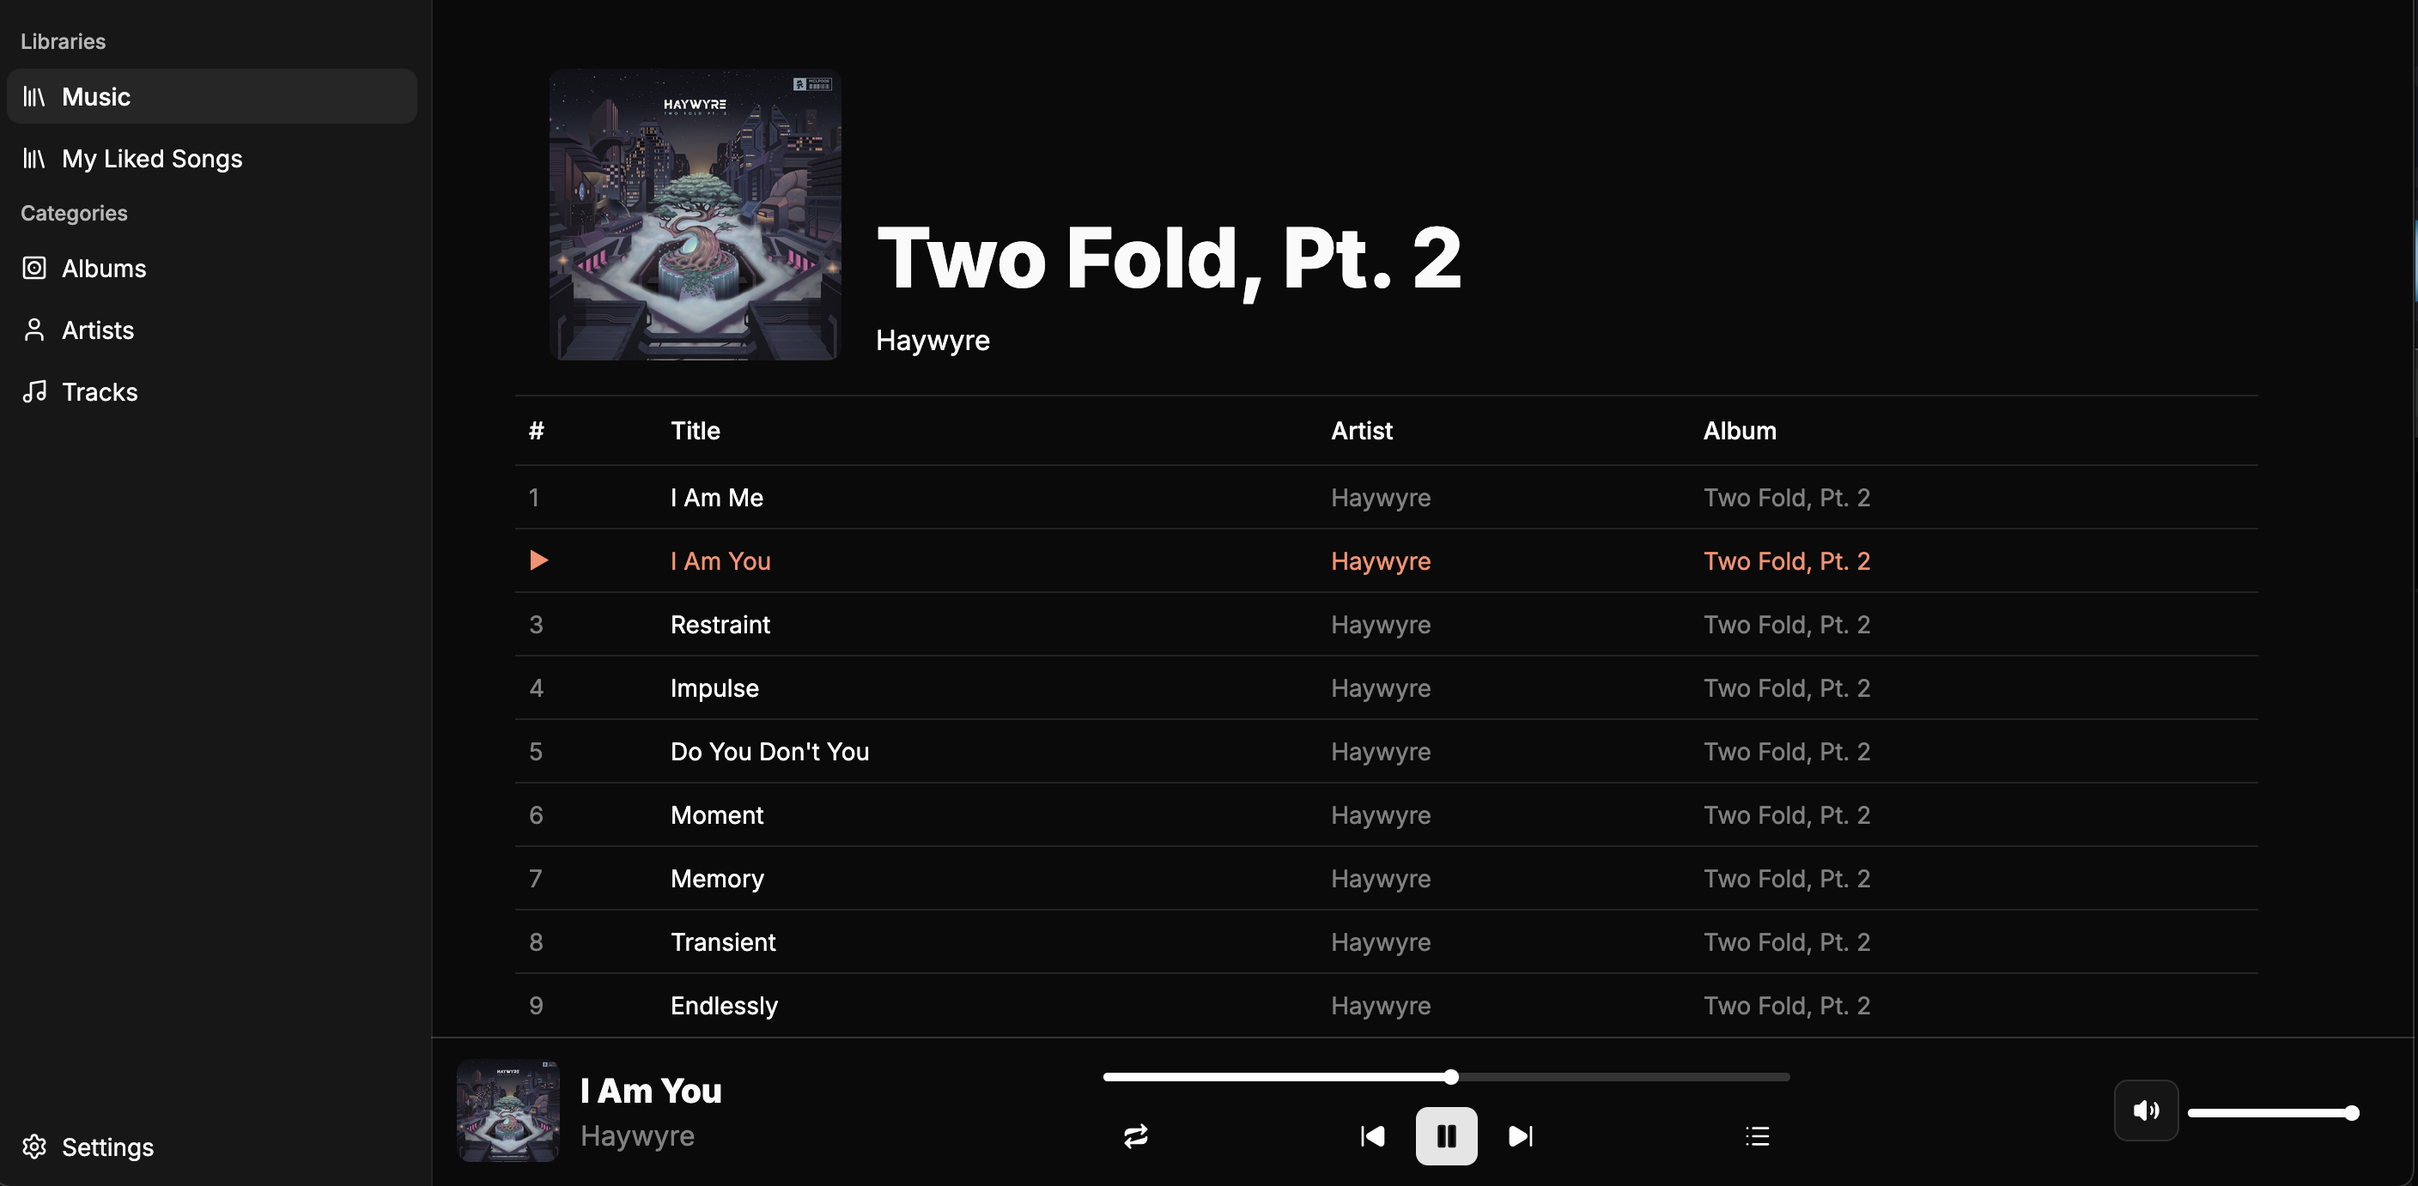
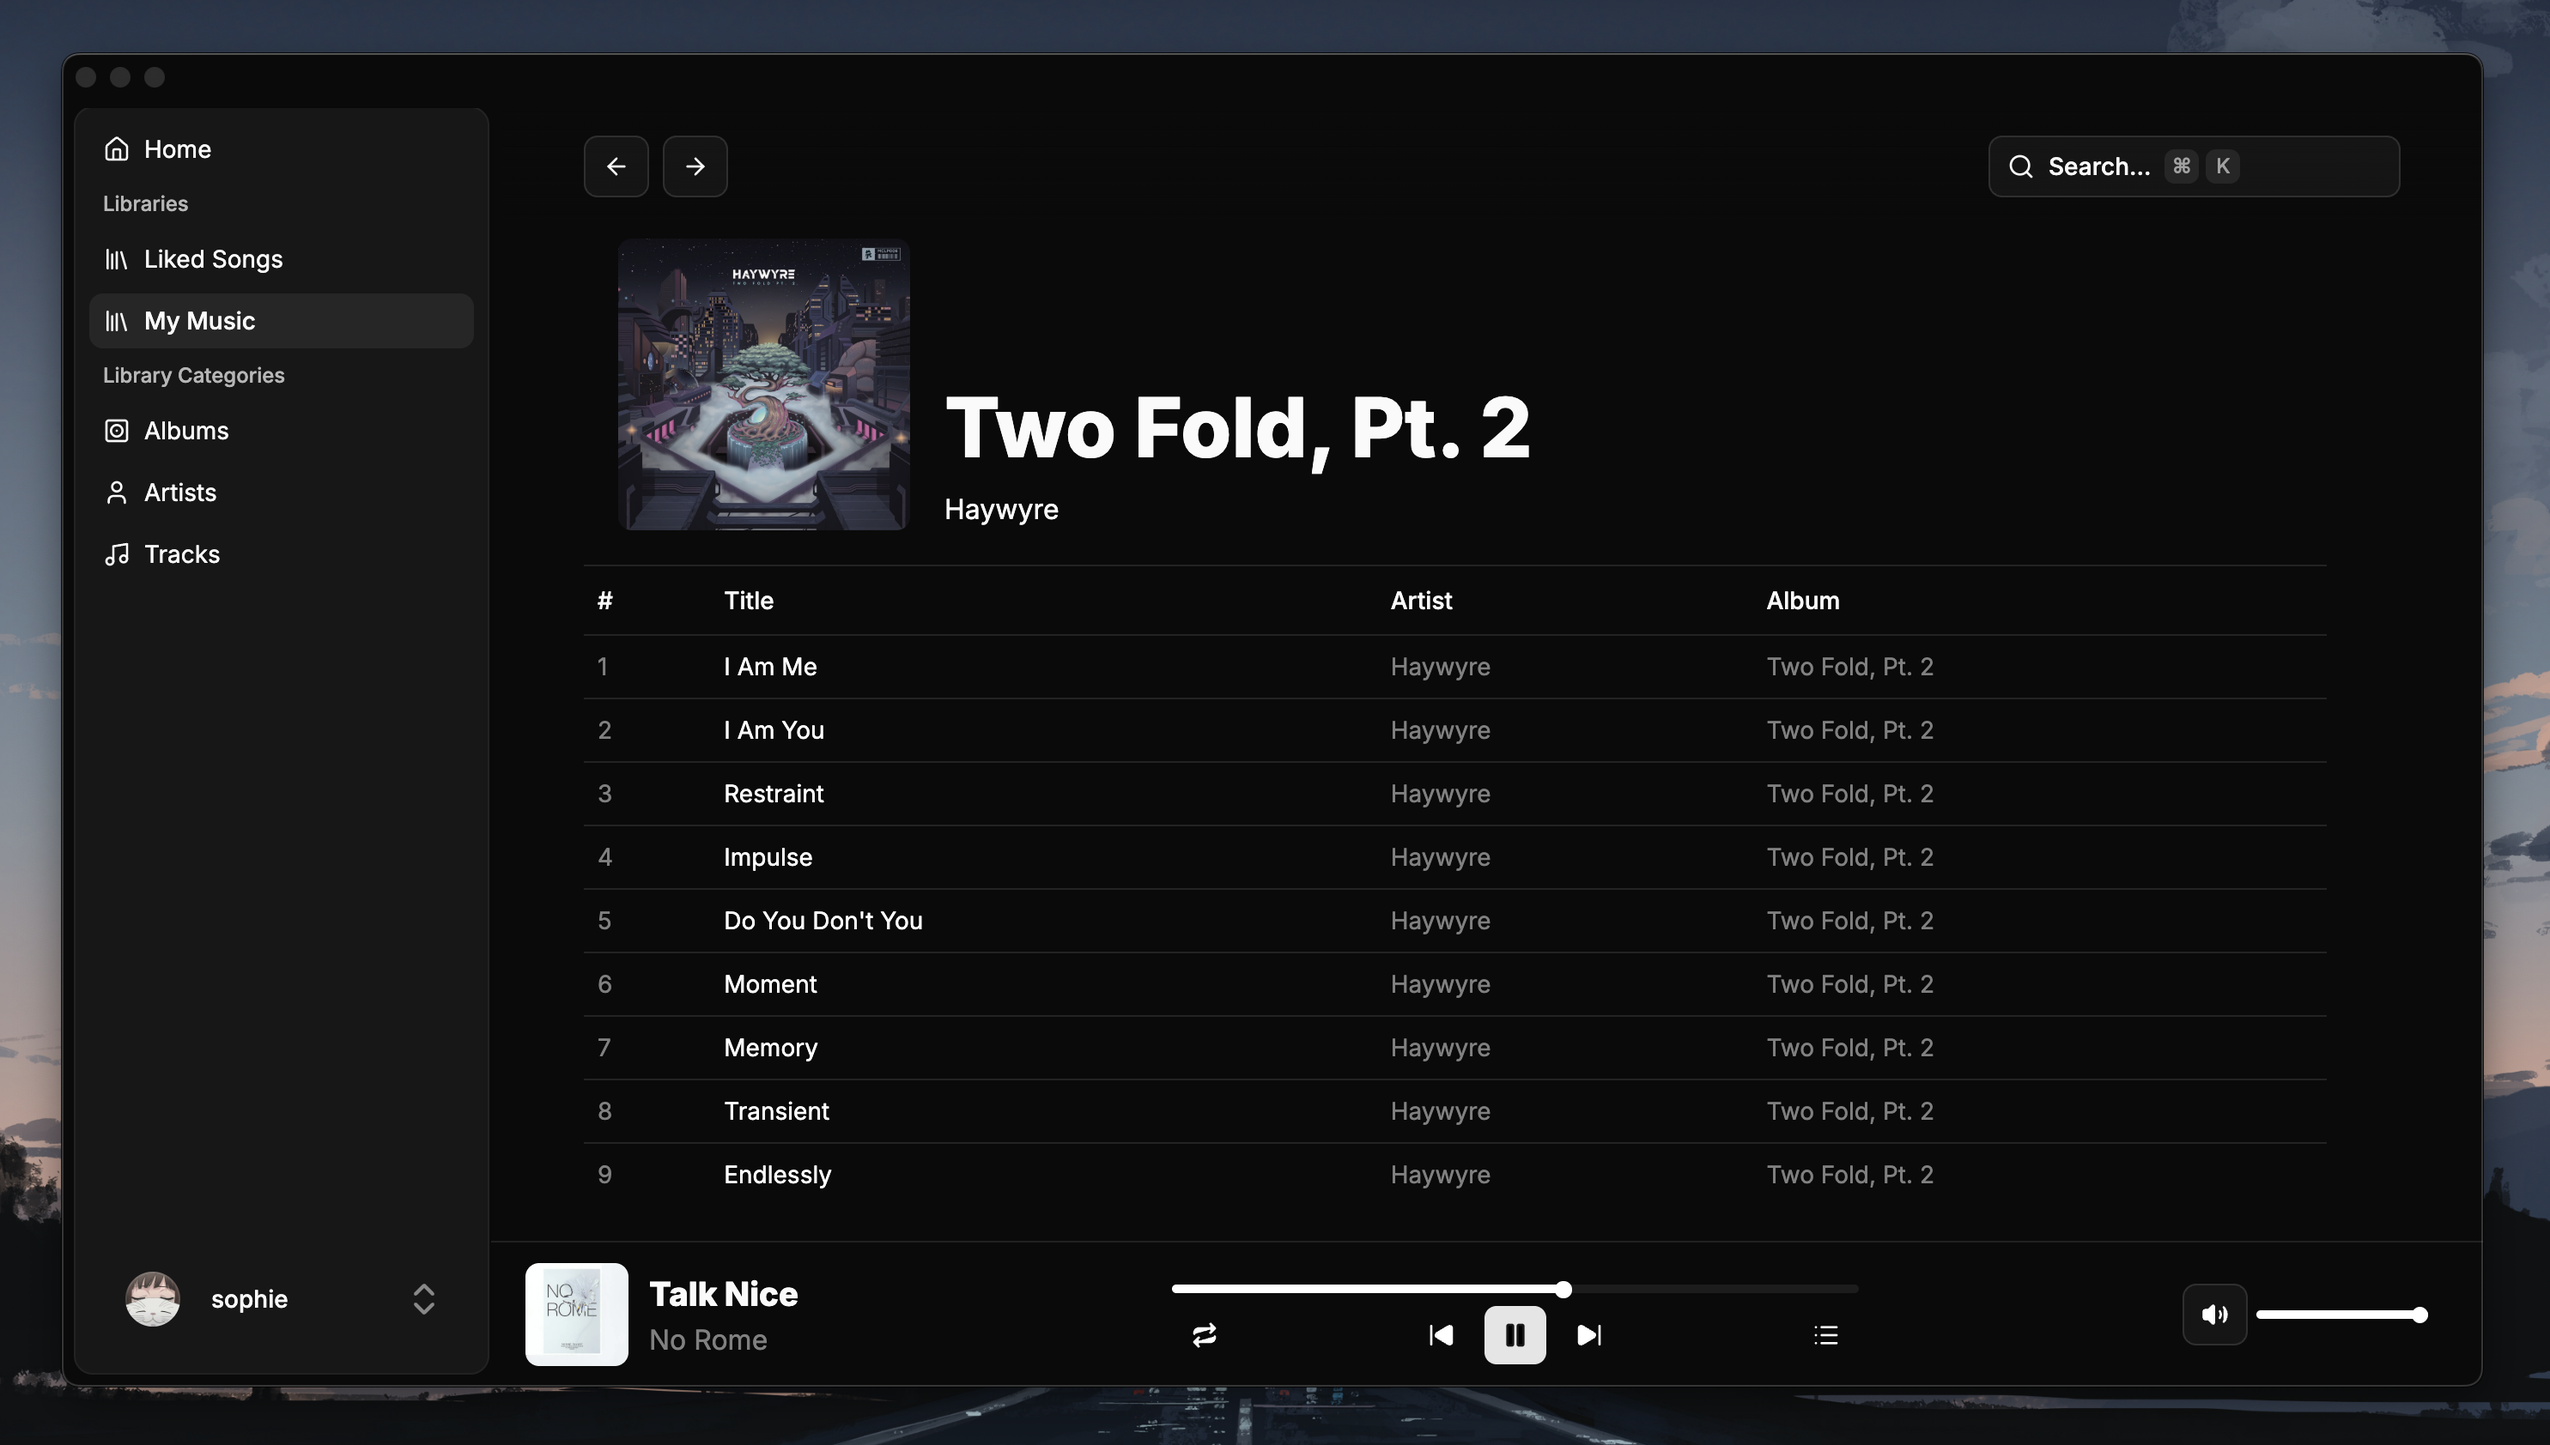
update photos

diff --git a/README.md b/README.md
@@ -19,7 +19,7 @@ Currently there is no prebuilt binaries or anything so you'll have to just run i
 
 ![Albums](/preview/albums.png)
 ![Album](/preview//album.png)
-
 ![Artists](/preview/artists.png)
-
 ![Tracks](/preview/tracks.png)
+![Search](/preview/search.png)
+![Artist](/preview/artist.png)
